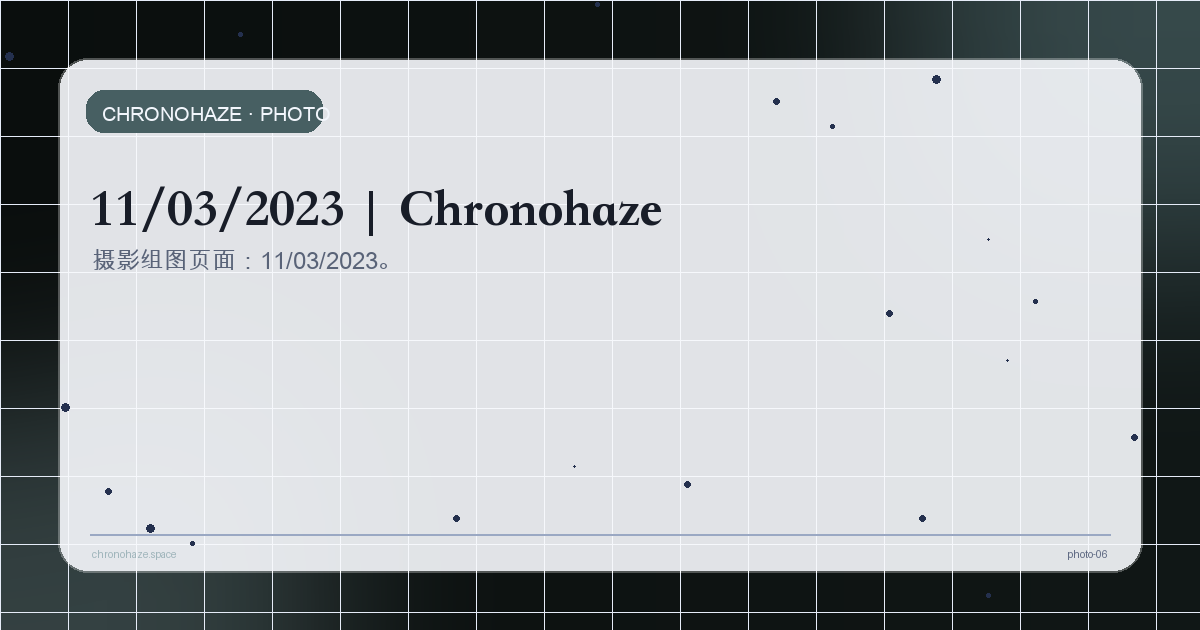
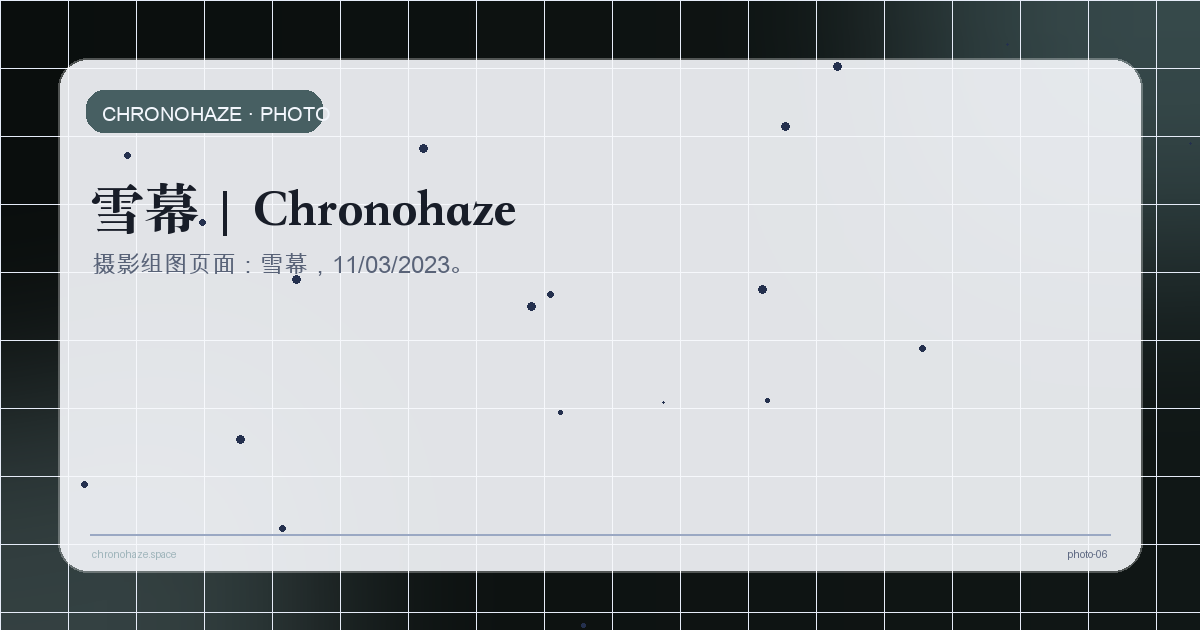
Update 2023 photo series titles

Changed region(s): [[0.0617, 0.2714, 0.555, 0.4524], [0.2158, 0.3921, 0.37, 0.4524]]

diff --git a/photo/photo-06.html b/photo/photo-06.html
@@ -139,17 +139,17 @@
   </script>
   <link rel="icon" type="image/x-icon" href="https://lyuf09.github.io/chronohaze/assets/favicon.ico?v=4" />
   <link rel="apple-touch-icon" href="https://lyuf09.github.io/chronohaze/assets/apple-touch-icon.png?v=4" />
-  <title>11/03/2023 | 摄影 | Chronohaze</title>
-  <meta name="description" content="摄影组图页面：11/03/2023。" />
+  <title>雪幕 | 摄影 | Chronohaze</title>
+  <meta name="description" content="摄影组图页面：雪幕，11/03/2023。" />
   <meta property="og:type" content="article" />
   <meta property="og:site_name" content="Chronohaze" />
-  <meta property="og:title" content="11/03/2023 | Chronohaze" />
-  <meta property="og:description" content="摄影组图页面：11/03/2023。" />
+  <meta property="og:title" content="雪幕 | Chronohaze" />
+  <meta property="og:description" content="摄影组图页面：雪幕，11/03/2023。" />
   <meta property="og:url" content="https://lyuf09.github.io/chronohaze/photo/photo-06.html" />
   <meta property="og:image" content="https://lyuf09.github.io/chronohaze/assets/og/site/photo-06.png" />
   <meta name="twitter:card" content="summary_large_image" />
-  <meta name="twitter:title" content="11/03/2023 | Chronohaze" />
-  <meta name="twitter:description" content="摄影组图页面：11/03/2023。" />
+  <meta name="twitter:title" content="雪幕 | Chronohaze" />
+  <meta name="twitter:description" content="摄影组图页面：雪幕，11/03/2023。" />
   <meta name="twitter:image" content="https://lyuf09.github.io/chronohaze/assets/og/site/photo-06.png" />
   <link rel="canonical" href="https://lyuf09.github.io/chronohaze/photo/photo-06.html" />
 
@@ -221,8 +221,18 @@
 
     <main class="main">
       <article class="article photo-detail-article">
-        <h1>11/03/2023</h1>
+        <h1 data-copy-en="Snow Curtain" data-copy-zh="雪幕">雪幕</h1>
         <p class="article-meta">英国奥斯沃斯特里 · 2023年</p>
+        <section class="photo-detail-statement" aria-label="Series statement">
+          <div data-lang-block="zh">
+            <p>这组照片拍摄于一场短暂的雪后。我在学校的美术 block 附近走过，旁边是 theatre，雪落在树枝、草地和空场上。</p>
+            <p>这些画面更像某个幕间的片刻，演出尚未开始，灯光还没有亮起，只有雪、乌鸦、空地和玻璃里的倒影安静地停在那里。世界被白色覆盖，却没有变得明亮，反而显出一种冷而柔软的蓝。</p>
+          </div>
+          <div data-lang-block="en">
+            <p>This series was made after a brief snowfall near the art block at school, close to the theatre. Snow had settled on the branches, grass, and open ground.</p>
+            <p>These images feel like a moment between acts: before the lights come on, before anything begins again. There are only snow, crows, vacant ground, and a reflection caught in glass. The world is covered in white, but not made brighter — only softened into a cold, quiet blue.</p>
+          </div>
+        </section>
         <div class="photo-detail-gallery">
           <figure class="photo-detail-item"><img src="../assets/images/wix/64569d_2de314b002764b8791462ced9db2c863~mv2.jpg" alt="11/03/2023 photograph 1 — 英国奥斯沃斯特里 · 2023年" loading="lazy" /></figure><figure class="photo-detail-item"><img src="../assets/images/wix/64569d_96f2b03845d743eab2cf5e782d9f2cf0~mv2.jpg" alt="11/03/2023 photograph 2 — 英国奥斯沃斯特里 · 2023年" loading="lazy" /></figure><figure class="photo-detail-item"><img src="../assets/images/wix/64569d_81afd7f6d1e6480dba313cb493da9d8a~mv2.jpg" alt="11/03/2023 photograph 3 — 英国奥斯沃斯特里 · 2023年" loading="lazy" /></figure><figure class="photo-detail-item"><img src="../assets/images/wix/64569d_6abc632673934656beef94d62d3bdc89~mv2.jpg" alt="11/03/2023 photograph 4 — 英国奥斯沃斯特里 · 2023年" loading="lazy" /></figure>
         </div>

diff --git a/search.html b/search.html
@@ -886,7 +886,7 @@
       "content": "chronohaze.space 主页 数学 摄影 音乐 CV 01/04/2023 中国重庆市 · 2023年 返回摄影栏目 chronohaze.space 辗转不同国家无固定号码 请联系邮箱： moc.duolci@035reief 重庆 · Edinburgh · New York © 2026 by chronohaze.space. Powered and secured by GitHub Pages. LinkedIn Instagram Bilibili GitHub 网站说明 无障碍支持"
     },
     {
-      "title": "抵达之前",
+      "title": "灰潮",
       "url": "photo/photo-09.html",
       "section": "Photography",
       "date": "17/09/2023",
@@ -896,10 +896,10 @@
       ],
       "sort": 20230101,
       "scope": "photo",
-      "content": "chronohaze.space 主页 数学 摄影 音乐 CV 17/09/2023 英国爱丁堡 · 2023年 返回摄影栏目 chronohaze.space 辗转不同国家无固定号码 请联系邮箱： moc.duolci@035reief 重庆 · Edinburgh · New York © 2026 by chronohaze.space. Powered and secured by GitHub Pages. LinkedIn Instagram Bilibili GitHub 网站说明 无障碍支持"
+      "content": "chronohaze.space 主页 数学 摄影 音乐 CV 灰潮 Grey Tide 17/09/2023 英国爱丁堡 · 2023年 初秋 爱丁堡 阴雨 海面 白色花朵 乌鸦 潮湿石墙 抵达 身体 低光 返回摄影栏目 chronohaze.space"
     },
     {
-      "title": "三月初开",
+      "title": "雪幕",
       "url": "photo/photo-06.html",
       "section": "Photography",
       "date": "11/03/2023",
@@ -909,7 +909,7 @@
       ],
       "sort": 20230101,
       "scope": "photo",
-      "content": "chronohaze.space 主页 数学 摄影 音乐 CV 11/03/2023 英国奥斯沃斯特里 · 2023年 返回摄影栏目 chronohaze.space 辗转不同国家无固定号码 请联系邮箱： moc.duolci@035reief 重庆 · Edinburgh · New York © 2026 by chronohaze.space. Powered and secured by GitHub Pages. LinkedIn Instagram Bilibili GitHub 网站说明 无障碍支持"
+      "content": "chronohaze.space 主页 数学 摄影 音乐 CV 雪幕 Snow Curtain 11/03/2023 英国奥斯沃斯特里 · 2023年 短暂雪后 学校 美术 block theatre 树枝 草地 空场 雪 乌鸦 玻璃倒影 冷而柔软的蓝 返回摄影栏目 chronohaze.space"
     },
     {
       "title": "願う（音频待上传）",

diff --git a/photo/photo-09.html b/photo/photo-09.html
@@ -139,17 +139,17 @@
   </script>
   <link rel="icon" type="image/x-icon" href="https://lyuf09.github.io/chronohaze/assets/favicon.ico?v=4" />
   <link rel="apple-touch-icon" href="https://lyuf09.github.io/chronohaze/assets/apple-touch-icon.png?v=4" />
-  <title>17/09/2023 | 摄影 | Chronohaze</title>
-  <meta name="description" content="摄影组图页面：17/09/2023。" />
+  <title>灰潮 | 摄影 | Chronohaze</title>
+  <meta name="description" content="摄影组图页面：灰潮，17/09/2023。" />
   <meta property="og:type" content="article" />
   <meta property="og:site_name" content="Chronohaze" />
-  <meta property="og:title" content="17/09/2023 | Chronohaze" />
-  <meta property="og:description" content="摄影组图页面：17/09/2023。" />
+  <meta property="og:title" content="灰潮 | Chronohaze" />
+  <meta property="og:description" content="摄影组图页面：灰潮，17/09/2023。" />
   <meta property="og:url" content="https://lyuf09.github.io/chronohaze/photo/photo-09.html" />
   <meta property="og:image" content="https://lyuf09.github.io/chronohaze/assets/og/site/photo-09.png" />
   <meta name="twitter:card" content="summary_large_image" />
-  <meta name="twitter:title" content="17/09/2023 | Chronohaze" />
-  <meta name="twitter:description" content="摄影组图页面：17/09/2023。" />
+  <meta name="twitter:title" content="灰潮 | Chronohaze" />
+  <meta name="twitter:description" content="摄影组图页面：灰潮，17/09/2023。" />
   <meta name="twitter:image" content="https://lyuf09.github.io/chronohaze/assets/og/site/photo-09.png" />
   <link rel="canonical" href="https://lyuf09.github.io/chronohaze/photo/photo-09.html" />
 
@@ -221,7 +221,7 @@
 
     <main class="main">
       <article class="article photo-detail-article">
-        <h1>17/09/2023</h1>
+        <h1 data-copy-en="Grey Tide" data-copy-zh="灰潮">灰潮</h1>
         <p class="article-meta">英国爱丁堡 · 2023年</p>
         <section class="photo-detail-statement" aria-label="Series statement">
           <div data-lang-block="zh">

diff --git a/photography.html b/photography.html
@@ -361,7 +361,7 @@
 <img alt="摄影系列预览图：17/09/2023 — 英国爱丁堡 · 2023年" decoding="async" height="3000" loading="lazy" sizes="(max-width: 640px) 92vw, (max-width: 980px) 46vw, 29vw" src="assets/images/wix/64569d_06f8f207dc77495c9940089581f9853f~mv2-960.webp" width="4000"/>
 </picture>
 <div class="photo-meta">
-<p class="photo-title" data-copy-en="Before Arrival" data-copy-zh="抵达之前">抵达之前</p>
+<p class="photo-title" data-copy-en="Grey Tide" data-copy-zh="灰潮">灰潮</p>
 <p class="photo-date" data-copy-en="17/09/2023" data-copy-zh="17/09/2023">17/09/2023</p>
 <p class="photo-subtitle" data-copy-en="Read More" data-copy-zh="阅读全文">阅读全文</p>
 </div>
@@ -400,7 +400,7 @@
 <img alt="摄影系列预览图：11/03/2023 — 英国奥斯沃斯特里 · 2023年" decoding="async" height="1593" loading="lazy" sizes="(max-width: 640px) 92vw, (max-width: 980px) 46vw, 29vw" src="assets/images/wix/64569d_6abc632673934656beef94d62d3bdc89~mv2-960.webp" width="2832"/>
 </picture>
 <div class="photo-meta">
-<p class="photo-title" data-copy-en="March Openings" data-copy-zh="三月初开">三月初开</p>
+<p class="photo-title" data-copy-en="Snow Curtain" data-copy-zh="雪幕">雪幕</p>
 <p class="photo-date" data-copy-en="11/03/2023" data-copy-zh="11/03/2023">11/03/2023</p>
 <p class="photo-subtitle" data-copy-en="Read More" data-copy-zh="阅读全文">阅读全文</p>
 </div>
